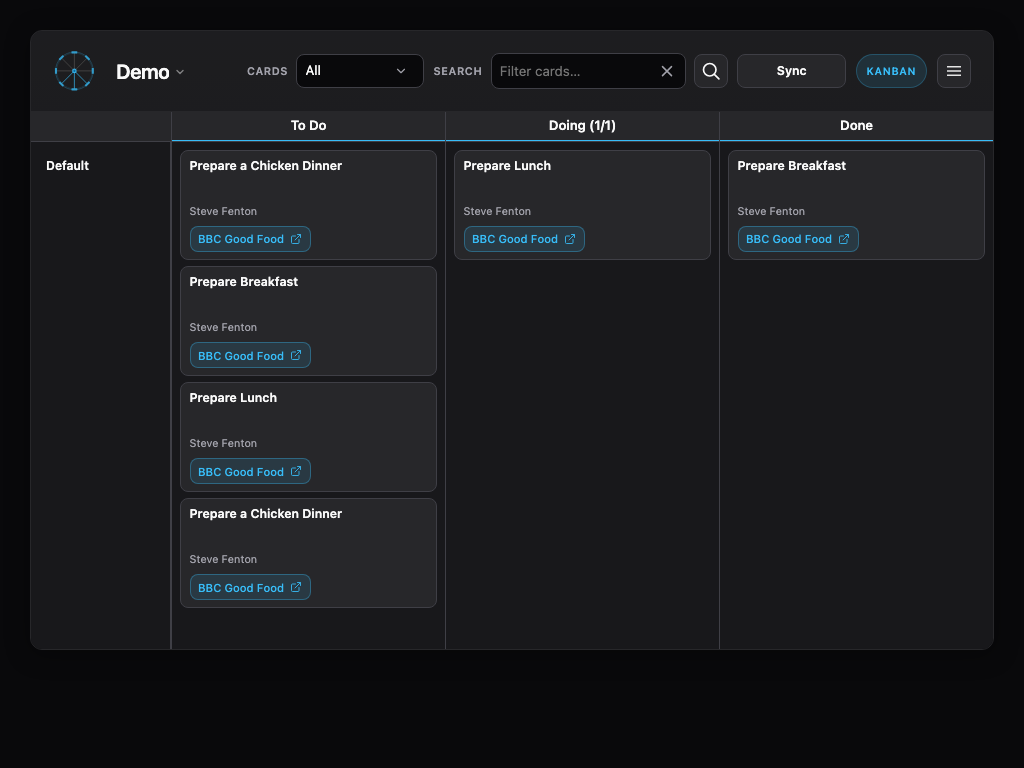
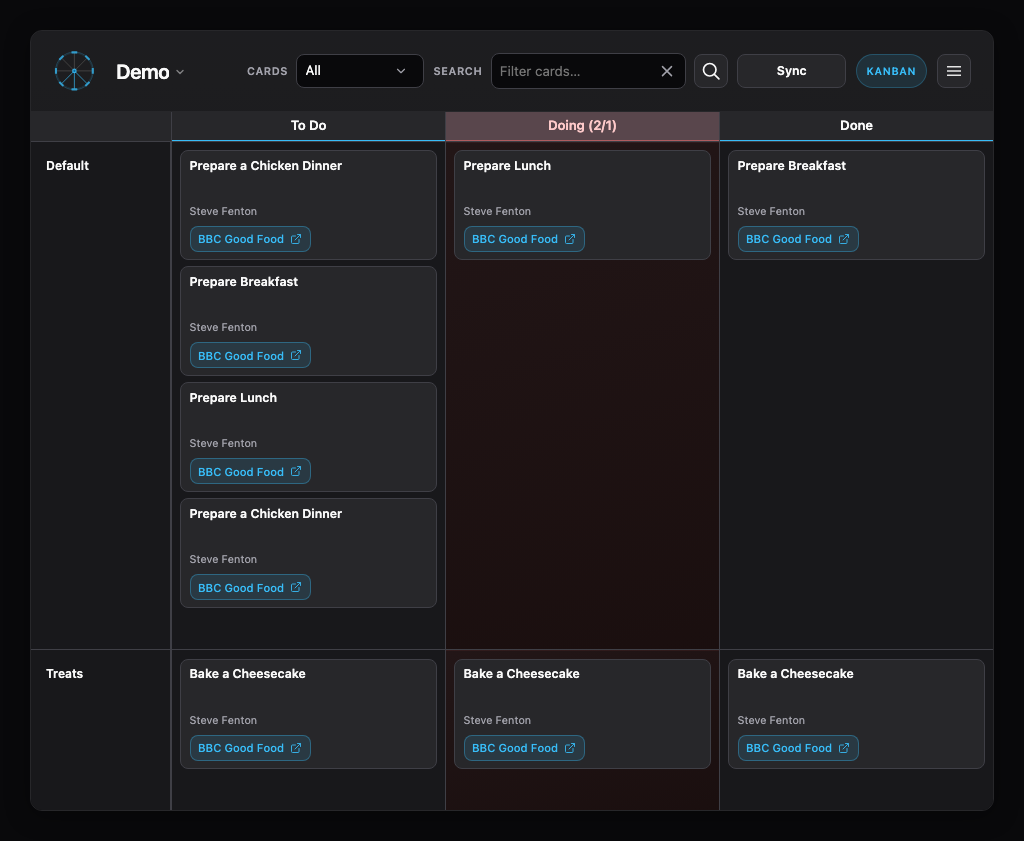
Automated screenshots

diff --git a/tests/playwright/demo-board.spec.js b/tests/playwright/demo-board.spec.js
@@ -1,7 +1,21 @@
 import path from "path";
-import { test } from "@playwright/test";
+import { expect, test } from "@playwright/test";
 
 const ACTIVE_BOARD_KEY = "flow:active-board-slug";
+
+/** Matches chart cards in {@link renderChartsShell} (`assets/js/pages/charts.js`). */
+const CHART_EXPAND_SHOTS = [
+  {
+    file: "demo-chart-expand-completions.png", 
+    title: "Completions" 
+  },{
+    file: "demo-chart-expand-swimlane.png",
+    title: "Completions by swimlane",
+  },{
+    file: "demo-chart-expand-cycle-time.png",
+    title: "Cycle time (created → closed)",
+  },
+];
 
 test.describe("doc screenshots", () => {
   test.beforeEach(async ({ context }) => {
@@ -23,5 +37,153 @@ test.describe("doc screenshots", () => {
       /** 1 CSS px per image px; default "device" scales with DPR and can break full-page shots. */
       scale: "css",
     });
+  });
+
+  test("demo board — single card with move icons", async ({ page }) => {
+    await page.goto("/");
+    await page.waitForSelector(".board-shell", { timeout: 30_000 });
+
+    const firstTitle = page.locator(".column-card .column-card-title").first();
+    await expect(firstTitle).toBeVisible({ timeout: 15_000 });
+    await firstTitle.click();
+
+    const openCard = page.locator(".column-card--compass-open").first();
+    await expect(openCard).toBeVisible();
+
+    const out = path.join(
+      process.cwd(),
+      "docs/screenshots/demo-card-move-icons.png"
+    );
+    await openCard.screenshot({ path: out, scale: "css" });
+  });
+
+  test("demo board — edit card dialog", async ({ page }) => {
+    await page.goto("/");
+    await page.waitForSelector(".board-shell", { timeout: 30_000 });
+
+    const editBtn = page.locator(".flow-card-edit-btn").first();
+    await expect(editBtn).toBeVisible({ timeout: 15_000 });
+    await editBtn.click();
+
+    const dialog = page.locator("dialog.flow-modal--edit-card");
+    await expect(dialog).toBeVisible({ timeout: 15_000 });
+
+    const out = path.join(
+      process.cwd(),
+      "docs/screenshots/demo-edit-card-dialog.png"
+    );
+    await dialog.screenshot({ path: out, scale: "css" });
+  });
+
+  test("demo board — completed page full page", async ({ page }) => {
+    await page.goto("/complete/");
+    await page.waitForSelector(".complete-shell", { timeout: 30_000 });
+    const out = path.join(
+      process.cwd(),
+      "docs/screenshots/demo-completed-full.png"
+    );
+    await page.screenshot({
+      path: out,
+      fullPage: true,
+      scale: "css",
+    });
+  });
+
+  test("demo board — charts page full page", async ({ page }) => {
+    await page.goto("/charts/");
+    await page.waitForSelector(".charts-shell", { timeout: 30_000 });
+    const out = path.join(
+      process.cwd(),
+      "docs/screenshots/demo-charts-full.png"
+    );
+    await page.screenshot({
+      path: out,
+      fullPage: true,
+      scale: "css",
+    });
+  });
+
+  test("demo board — preferences page full page", async ({ page }) => {
+    await page.goto("/preferences/");
+    await page.waitForSelector(".preferences-shell", { timeout: 30_000 });
+    const out = path.join(
+      process.cwd(),
+      "docs/screenshots/demo-preferences-full.png"
+    );
+    await page.screenshot({
+      path: out,
+      fullPage: true,
+      scale: "css",
+    });
+  });
+
+  test("demo board — admin page full page", async ({ page }) => {
+    await page.goto("/admin/");
+    /** Admin uses `admin-shell` without `preferences-shell` (preferences adds that class). */
+    await page.waitForSelector(".board-shell.admin-shell:not(.preferences-shell)", {
+      timeout: 30_000,
+    });
+    const out = path.join(
+      process.cwd(),
+      "docs/screenshots/demo-admin-full.png"
+    );
+    await page.screenshot({
+      path: out,
+      fullPage: true,
+      scale: "css",
+    });
+  });
+
+  test("demo board — admin edit board dialog (Demo row)", async ({ page }) => {
+    await page.goto("/admin/");
+    await page.waitForSelector(".board-shell.admin-shell:not(.preferences-shell)", {
+      timeout: 30_000,
+    });
+
+    await page
+      .getByRole("button", { name: "Edit board Demo", exact: true })
+      .click();
+
+    const dialog = page.locator("dialog.flow-modal--edit-board");
+    await expect(dialog).toBeVisible({ timeout: 15_000 });
+
+    const out = path.join(
+      process.cwd(),
+      "docs/screenshots/demo-admin-edit-board-dialog.png"
+    );
+    await dialog.screenshot({ path: out, scale: "css" });
+
+    await dialog.getByRole("button", { name: "Cancel" }).click();
+    await expect(page.locator("dialog.flow-modal--edit-board")).toHaveCount(0);
+  });
+
+  test("demo board — each chart expanded (dialog only)", async ({ page }) => {
+    await page.goto("/charts/");
+    await page.waitForSelector(".charts-shell", { timeout: 30_000 });
+
+    for (const { file, title } of CHART_EXPAND_SHOTS) {
+      const card = page.locator("section.charts-chart-card").filter({
+        has: page.getByRole("heading", {
+          level: 2,
+          name: title,
+          exact: true,
+        }),
+      });
+      await expect(card).toBeVisible();
+      await card.getByRole("button", { name: "Expand chart" }).click();
+
+      const dialog = page.locator("dialog.flow-modal--chart-expand");
+      await expect(dialog).toBeVisible();
+      await expect(dialog.getByRole("heading", { level: 2 })).toHaveText(title);
+      await expect(dialog.locator(".charts-svg-wrap--expanded svg")).toBeVisible();
+
+      const out = path.join(process.cwd(), "docs/screenshots", file);
+      await dialog.screenshot({ path: out, scale: "css" });
+
+      await dialog.getByRole("button", { name: "Close" }).click();
+      await expect(
+        page.locator("dialog.flow-modal--chart-expand")
+      ).toHaveCount(0);
+    }
   });
 });